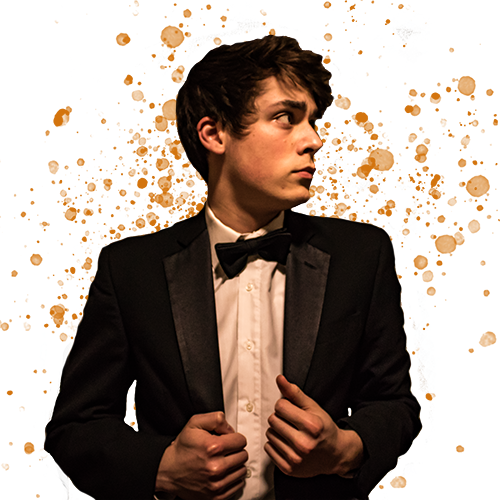
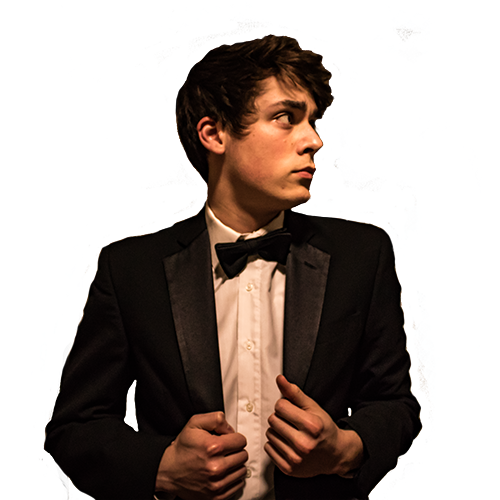
change color of profile picture and fix width

diff --git a/index.html b/index.html
@@ -86,13 +86,12 @@
             <p class="text-faded mb-4">Aside from my work and education, I go to a LOT of hackathons. They give me the opportunity to work on wonderful teams and learn so much. Shying away from Computer Science, I also love photography and cinematography (hence the overly dramatic and completely unnecessary picture of me).</p>
           </div>
         </div>
-      </div>
-      <br>
-      <div class="row">
-        <div class="col-lg-8 mx-auto text-center">
-          <a class="btn btn-light btn-xl js-scroll-trigger" href="#portfolio">Get Started!</a>
+        <br>
+        <div class="row">
+          <div class="col-lg-8 mx-auto text-center">
+            <a class="btn btn-light btn-xl js-scroll-trigger" href="#portfolio">Get Started!</a>
+          </div>
         </div>
-      </div>
       </div>
     </section>
 
